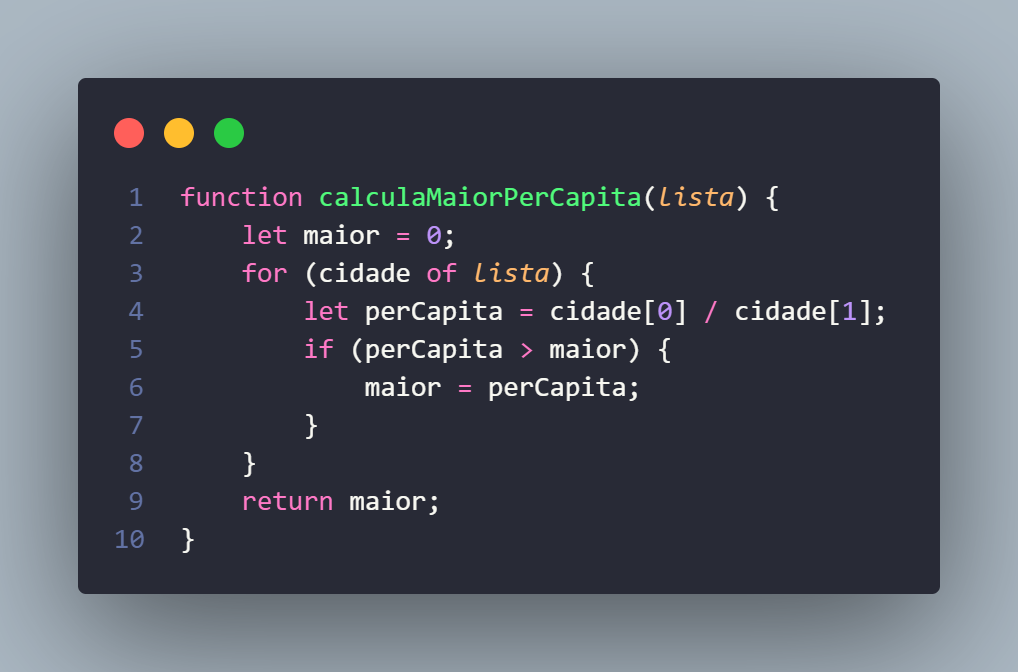
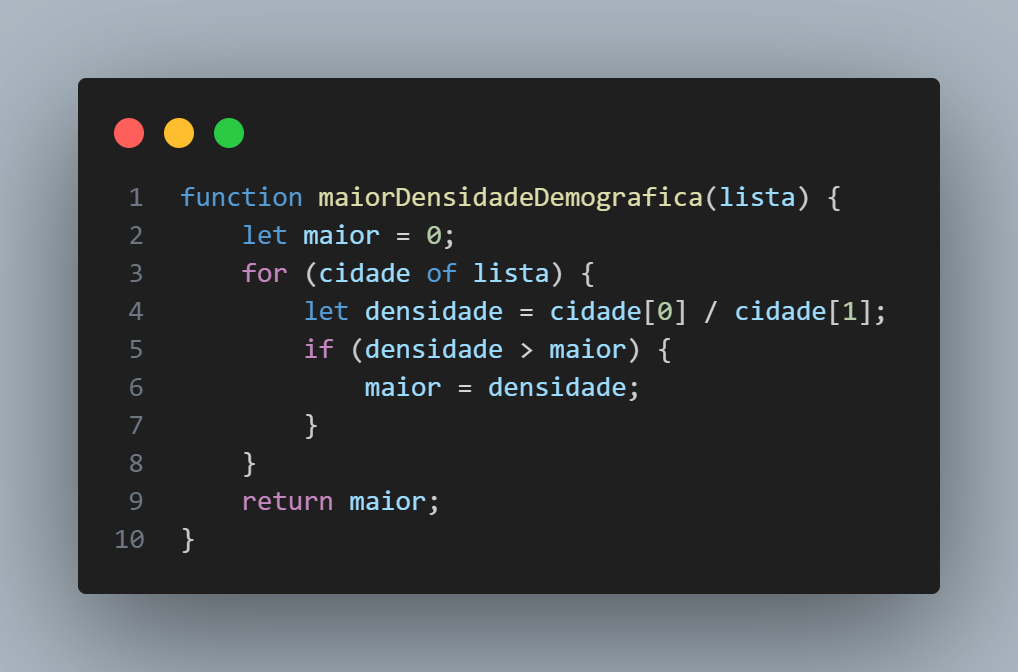
fix questao simcity

diff --git a/aula-3/src/questoes-codigo/for-loop/main.js b/aula-3/src/questoes-codigo/for-loop/main.js
@@ -11,55 +11,55 @@ lista de cidades e retornar o valor da maior densidade demográfica.
 Qual das opções abaixo representaria o código adequado para tal função?
 */
 
-function calculaMaiorPerCapita(lista) {
+function maiorDensidadeDemografica(lista) {
     let maior = 0;
     for (cidade of lista) {
-        let perCapita = cidade[0] / cidade[1];
-        if (perCapita > maior) {
-            maior = perCapita;
+        let densidade = cidade[0] / cidade[1];
+        if (densidade > maior) {
+            maior = densidade;
         }
     }
     return maior;
 }
 
 
-function calculaMaiorPerCapita(lista) {
+function maiorDensidadeDemografica(lista) {
     for (cidade of lista) {
-        let perCapita = cidade[0] / cidade[1];
-        console.log(perCapita);
-        if (perCapita > maior) {
-            maior = perCapita;
+        let densidade = cidade[0] / cidade[1];
+        console.log(densidade);
+        if (densidade > maior) {
+            maior = densidade;
         }
     }
     return maior;
 }
 
 
-function calculaMaiorPerCapita(lista) {
+function maiorDensidadeDemografica(lista) {
     for (cidade of lista) {
         let maior = 0;
-        let perCapita = cidade[0] / cidade[1];
-        if (perCapita > maior) {
-            maior = perCapita;
+        let densidade = cidade[0] / cidade[1];
+        if (densidade > maior) {
+            maior = densidade;
             return maior;
         }
     }
 }
 
 
-function calculaMaiorPerCapita(lista) {
+function maiorDensidadeDemografica(lista) {
     let maior = 10000;
-    let perCapita = cidade[0] / cidade[1]; 
+    let densidade = cidade[0] / cidade[1]; 
     for (cidade of lista) {
-        if (perCapita > maior) {
-            maior = perCapita;
+        if (densidade > maior) {
+            maior = densidade;
         }
         return maior;
     }
 }
 
 
-function calculaMaiorPerCapita(lista) {
+function maiorDensidadeDemografica(lista) {
     for (cidade of lista) {
         let maior = 0;
         if (cidade[0] / cidade[1] > maior) {
